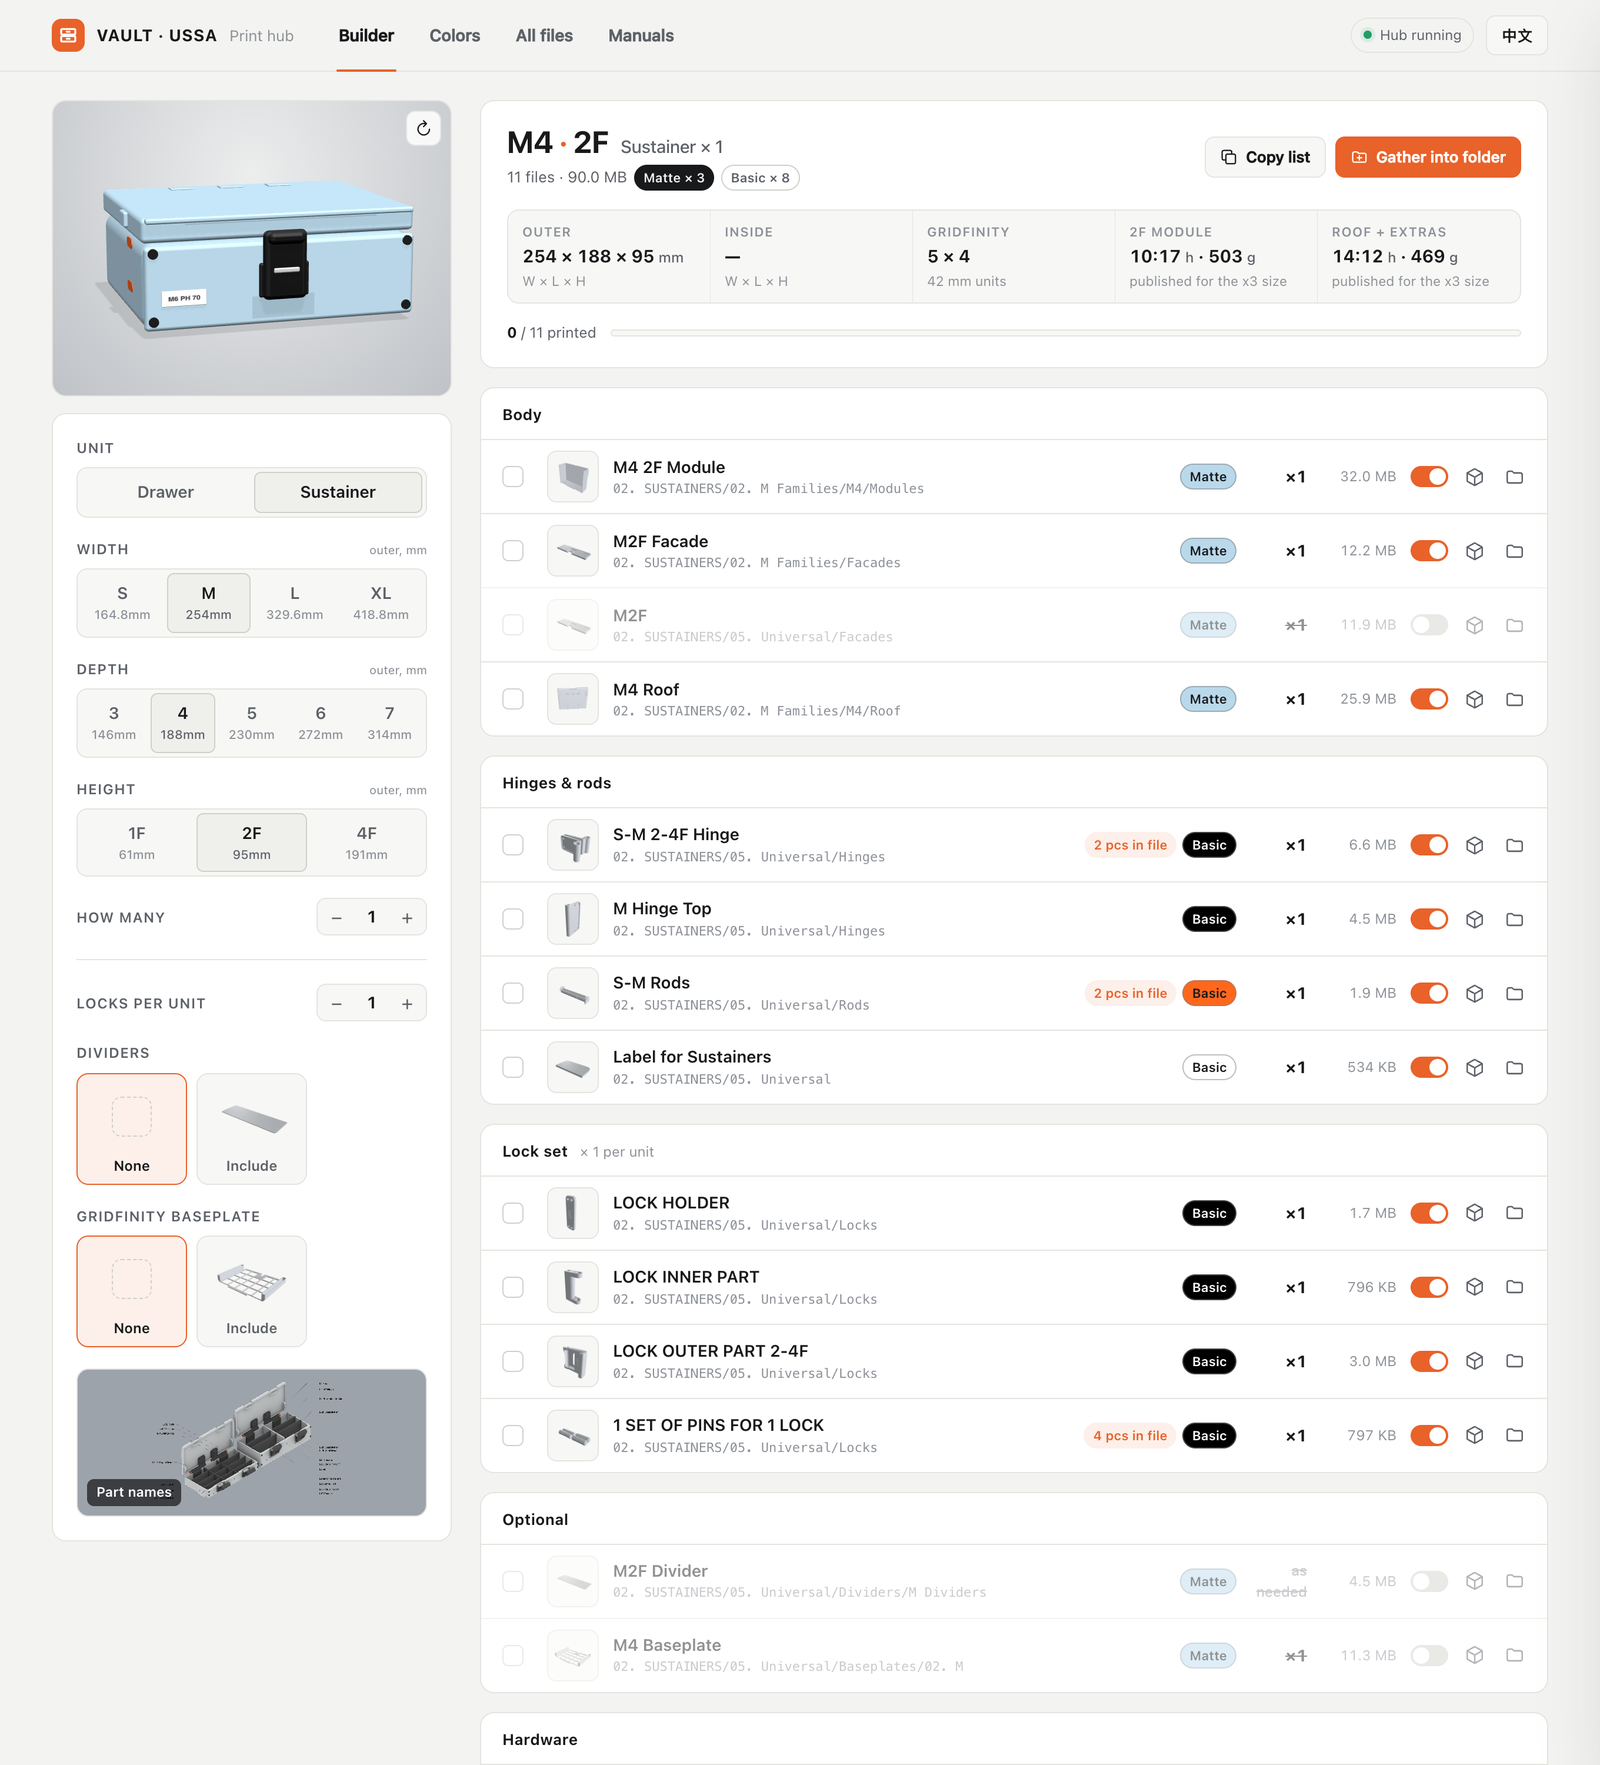
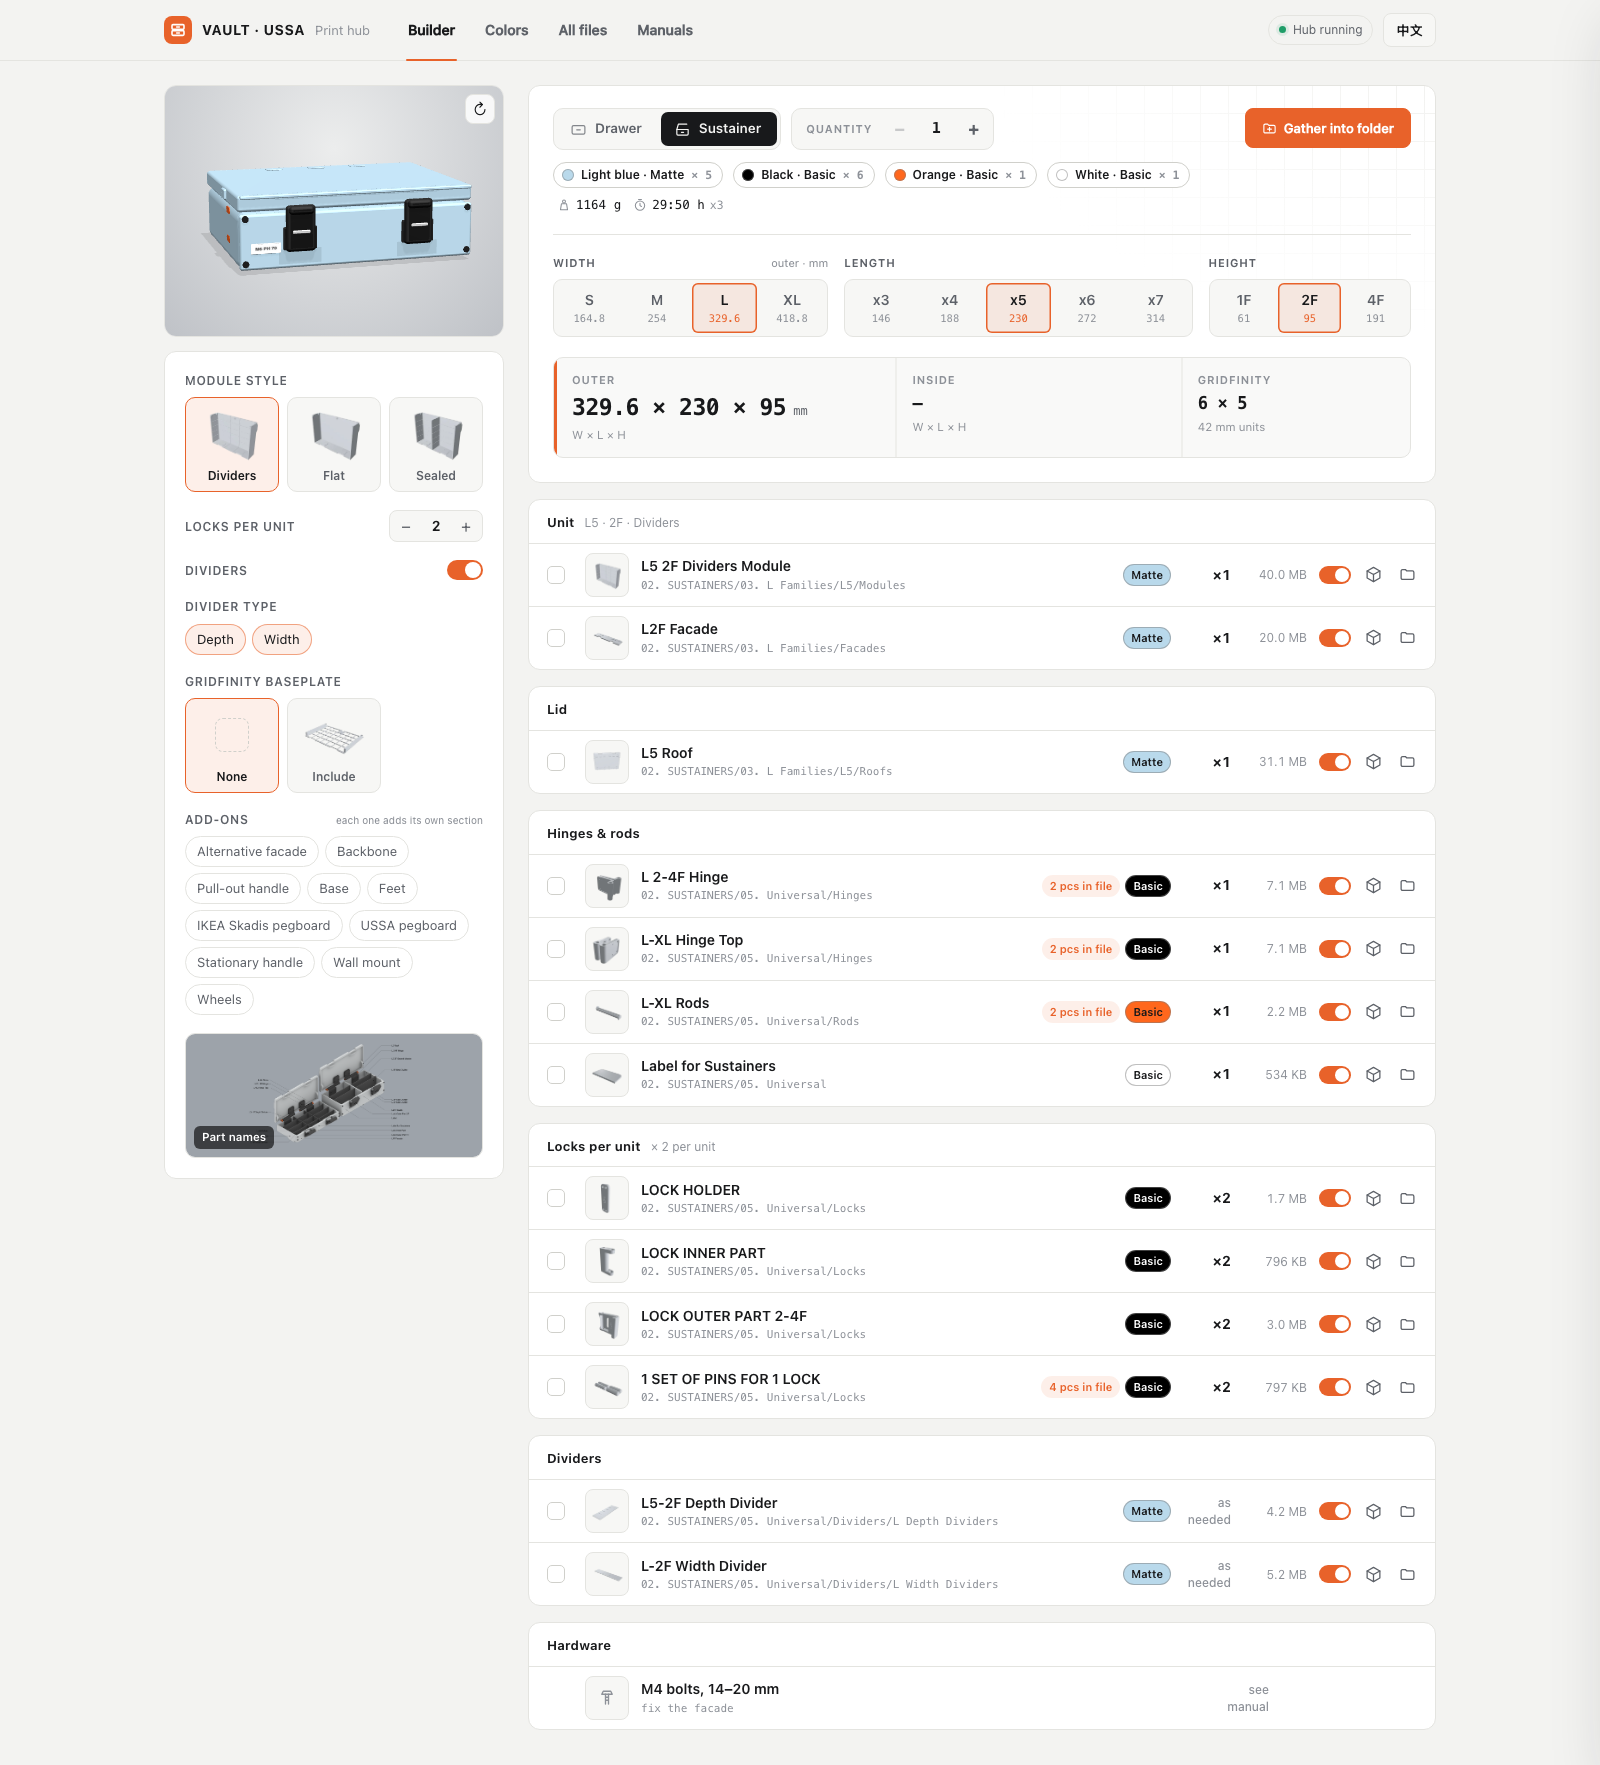
Sustainer dividers follow the module style (Dividers: Depth + Width, Sealed: Seal, Flat: none); refreshed Builder screenshots; README updated

diff --git a/index.html b/index.html
@@ -680,7 +680,7 @@ const I18N = {
     height: 'Height', count: 'Quantity', lock: 'Lock', lockKey: 'Key', lockHidden: 'Hidden key',
     roof: 'Roof for the top unit', none: 'None', handle: 'Top handle', baseplate: 'Gridfinity baseplate',
     plain: 'Plain', oneHandle: '1 handle', twoHandles: '2 handles', modStyle: 'Module style', lid: 'Lid',
-    divKind: 'Divider type', div_depth: 'Depth', div_width: 'Width', div_seal: 'Seal', whole: 'One piece', split: 'Split · 2 parts', locks: 'Locks per unit', dividers: 'Dividers', include: 'Include', twoParts: 'Include · 2 parts', exploded: 'Part names',
+    divKind: 'Divider type', div_depth: 'Depth', div_width: 'Width', div_seal: 'Seal', flatNoSlots: 'The Flat module has no divider slots. Pick the Dividers or Sealed style to use dividers.', whole: 'One piece', split: 'Split · 2 parts', locks: 'Locks per unit', dividers: 'Dividers', include: 'Include', twoParts: 'Include · 2 parts', exploded: 'Part names',
     secUnit: 'Unit', secMech: 'Slides & latch', secTopNote: 'print once per stack',
     secHinge: 'Hinges & rods', secLockNote: n => `× ${n} per unit`, secHw: 'Hardware',
     perUnit: 'per unit', bolts: 'M4 bolts, 14–20 mm', boltsNote: n => `${n} per drawer · fix the facade`, boltsSus: 'fix the facade',
@@ -720,7 +720,7 @@ const I18N = {
     height: '高度', count: '数量', lock: '锁', lockKey: '钥匙锁', lockHidden: '隐藏钥匙',
     roof: '最顶层盖板', none: '无', handle: '顶部提手', baseplate: 'Gridfinity 底板',
     plain: '无把手', oneHandle: '单把手', twoHandles: '双把手', modStyle: '盒体样式', lid: '盖子',
-    divKind: '隔板类型', div_depth: '深度', div_width: '宽度', div_seal: '密封', whole: '整体', split: '分体 · 2 件', locks: '每个盒子的锁', dividers: '隔板', include: '包含', twoParts: '包含 · 2 件', exploded: '零件命名图',
+    divKind: '隔板类型', div_depth: '深度', div_width: '宽度', div_seal: '密封', flatNoSlots: '平面款盒体没有隔板卡槽。要用隔板,请选「Dividers」或「Sealed」款。', whole: '整体', split: '分体 · 2 件', locks: '每个盒子的锁', dividers: '隔板', include: '包含', twoParts: '包含 · 2 件', exploded: '零件命名图',
     secUnit: '主体', secMech: '滑轨与卡扣', secTopNote: '每组堆叠只打印一次',
     secHinge: '铰链与销杆', secLockNote: n => `每个盒子 × ${n}`, secHw: '五金件',
     perUnit: '每个', bolts: 'M4 螺丝，14–20 mm', boltsNote: n => `每层抽屉 ${n} 颗 · 固定面板`, boltsSus: '固定面板',
@@ -999,15 +999,21 @@ function extraSections() {
 }
 
 // Sustainer dividers come from the sustainer folder, by kind: S and M have one; L and XL have Depth, Width and Seal.
+// Which kinds fit depends on the module style (measured on the STLs): the Dividers module has wall slots for the Depth and Width plates,
+// the Sealed module has a center wall and takes the compartment-sized Seal plates, the Flat module has no slots at all.
+const DIVIDER_STYLE = { Dividers: ['depth', 'width'], Sealed: ['seal'], Flat: [] };
 function sustainerDividerKinds() {
   const { w, d, h } = state, dv = `${S_UNI}Dividers/`;
+  const styles = sustainerVariants(), style = (styles.find(v => v.id === state.variant) || styles[0])?.id;
   if (w === 'S' || w === 'M') return [{ id: 'all', label: t('dividers'), files: find(`${dv}${w} Dividers/${w}${h} Divider\\.stl$`) }].filter(k => k.files.length);
   const kind = (id, re) => ({ id, label: t('div_' + id), files: find(re) });
+  const fit = k => !(style in DIVIDER_STYLE) || DIVIDER_STYLE[style].includes(k.id);
   return (w === 'L'
     ? [kind('depth', `${dv}L Depth Dividers/L${d}-${h} Depth Divider\\.stl$`), kind('width', `${dv}L Width Dividers/L-${h} Width Divider\\.stl$`), kind('seal', `${dv}L Seal Dividers/L-${h} Seal Divider\\.stl$`)]
     : [kind('depth', `${dv}XL Depth Dividers/XL${d} Depth Divider\\.stl$`), kind('width', `${dv}XL Width Divider\\.stl$`), kind('seal', `${dv}XL Seal Divider \\(\\w+\\)\\.stl$`)]
-  ).filter(k => k.files.length);
+  ).filter(k => k.files.length && fit(k));
 }
+const flatNoSlots = () => { const v = sustainerVariants(); const st = (v.find(x => x.id === state.variant) || v[0])?.id; return st === 'Flat'; };
 const sustainerDividers = () => sustainerDividerKinds().flatMap(k => k.files);
 const sustainerBaseplates = () => find(`${S_UNI}Baseplates/[^/]+/${state.w}${state.d}( Part \\d)? +(Gridfinity )?Baseplate\\.stl$`);
 
@@ -1041,7 +1047,7 @@ function sustainerSections() {
     sec(t('lid'), lid ? lid.files.map(f => part(f)) : [part(null, 1, { expect: `${w}${d} Roof` })]),
     sec(t('secHinge'), hinge),
     sec(t('locks'), lock, { sub: t('secLockNote', n), raw: true }),
-    sec(t('dividers'), state.dividers ? sustainerDividerKinds().filter(k => k.id === 'all' || state.divKinds?.[k.id]).flatMap(k => k.files).map(f => part(f, null)) : []),
+    sec(t('dividers'), state.dividers ? sustainerDividerKinds().filter((k, _, all) => all.length === 1 || state.divKinds?.[k.id]).flatMap(k => k.files).map(f => part(f, null)) : []),
     sec(t('baseplate'), state.sbase ? sustainerBaseplates().map(f => part(f)) : []),
     ...extraSections(),
     sec(t('secHw'), [{ hw: t('bolts'), sub: t('boltsSus'), qty: null }]),
@@ -1190,6 +1196,7 @@ function renderConfig() {
     html += stepper('locks', t('locks'), 0, 4);
     const dk = sustainerDividerKinds(), sbases = sustainerBaseplates();
     if (dk.length) html += toggle('dividers', t('dividers'));
+    else if (flatNoSlots()) html += field(t('dividers'), `<p class="note" style="padding:0">${esc(t('flatNoSlots'))}</p>`);
     if (dk.length > 1 && state.dividers) html += field(t('divKind'), `<div class="chips">${dk.map(k => `<button type="button" class="chip" data-dk="${k.id}" aria-pressed="${!!state.divKinds?.[k.id]}">${esc(k.label)}</button>`).join('')}</div>`);
     if (sbases.length) html += field(t('baseplate'), opts('sbase', [{ val: false, label: t('none') }, { val: true, label: sbases.length > 1 ? t('twoParts') : t('include'), file: sbases[0] }]));
   }

diff --git a/README.md b/README.md
@@ -29,14 +29,18 @@
 ### 📋 Plan + 🧊 See it
 
 - At the top: type and quantity, then the size in W × L × H order (width S–XL, length x3–x7, height 1F / 2F / 4F) right above its measurements. On the left: lock, roof, handle, baseplate, dividers, add-ons.
-- **Grid dividers (optional):** switch them on (starts with the pieces spanning the width and length), then pick the height (full, mid 34.5 mm on 2F/4F, low 20 mm) and the lengths (↔ fits the width, ↕ fits the depth). Only lengths and heights that fit the drawer are offered.
+- **Grid dividers (optional):** switch them on (starts with the pieces spanning the width and length), then pick the height (full, mid 34.5 mm on 2F/4F, low 20 mm) and the lengths (↔ fits the width, ↕ fits the length). Only lengths and heights that fit the drawer are offered.
+- **Sustainer dividers (optional) follow the module style.** They are thin plates that slide into wall slots, so the options depend on the style (checked on the STLs): **Dividers** module → Depth and Width plates; **Sealed** module → Seal plates (one compartment wide, full height); **Flat** module → no slots, so no dividers (a note says so). S and M have one style and one divider. Parts come only from the sustainer folders.
+
+![Dividers follow the module style](docs/dividers-by-style.png)
+
 - **XL 2F / 4F:** official sizes the pack has no body files for. They can be selected so their 82.5 mm dividers, rails, runners and roofs have a unit; module, box and facade show as *not in the pack*.
 - **Add-ons:** each chip adds its own section with the parts that fit this size: manual supports (drawers), L² version, alternative facade, other baseplate versions, wall mount, pegboards, feet, wheels, handles, backbone, base.
 - **One version, never both:** pick a base *whole* or *split*, and backbone / handle-lock parts *sized to the width* or *universal*. The handle lock and knob come with the pull-out handle. On 4F a note says handles need a 1F / 2F backbone elsewhere in the tower.
 - **The list mirrors the options:** one section per option, same name and order, showing only the parts you selected. Nothing unneeded is listed.
 - **Every STL is reachable from the options** (checked for all 110 type / width / length / height combinations): all 723 appear for at least one choice, and only for sizes they fit.
 - A row's switch leaves that part out; it is greyed and skipped by totals and *Gather*.
-- **Filament list:** under the controls, one chip per spool to load, e.g. *Lime · Matte × 4*, with the colors you picked on the Colors tab, Hidden mechanism parts with no color slot are grouped as *Any color*. One summed print figure follows (grams, then time).
+- **Filament list:** under the controls, one chip per spool to load, e.g. *Lime · Matte × 4*, with the colors you picked on the Colors tab. Hidden mechanism parts with no color slot are grouped as *Any color*. One summed print figure follows (grams, then time).
 - The preview shows the outside only (key, label, lid, latches, hinges, roofs) and follows your colors.
 
 ![Six sizes](docs/builder-preview.png)

diff --git a/README.zh-CN.md b/README.zh-CN.md
@@ -30,8 +30,12 @@
 
 - 顶部:类型和数量，然后按 宽 × 长 × 高 的顺序选尺寸(宽度 S–XL、长度 x3–x7、高度 1F / 2F / 4F),下面紧接着显示尺寸数据。左边:锁、顶盖、提手、底板、隔板、附加件。
 - **网格隔板(可选):** 打开开关(默认选好横跨宽度和长度的两种隔板),再选高度(满高、2F/4F 的中高 34.5mm、矮款 20mm)和长度(↔ 正好是宽度,↕ 正好是长度)。只提供放得进这个抽屉的长度和高度。
+- **翻盖收纳盒的隔板(可选)跟着盒体款式走。** 它们是插进侧壁卡槽的薄板,所以选项取决于款式(已在 STL 上核对):**Dividers** 款 → 深度和宽度隔板;**Sealed** 款 → 密封隔板(一个隔舱宽、满高);**Flat** 款 → 没有卡槽,所以没有隔板(会有提示)。S 和 M 只有一种款式、一种隔板。零件只来自收纳盒文件夹。
+
+![隔板跟着盒体款式走](docs/dividers-by-style.png)
+
 - **XL 2F / 4F:** 官方尺寸,但文件包里没有它们的主体文件。可以选择,让 82.5mm 隔板、导轨、滑轨和顶盖有对应的型号;模块、盒子和面板显示为"文件包中没有"。
-- **附加件:** 一键打开适合这个尺寸的一整组:手动支撑件(仅抽屉)、L² 版本、备选面板、其他底板版本、壁挂件、挂板、脚垫、轮子、提手、背板、底座。
+- **附加件:** 每个标签在右边加一节,里面是适合这个尺寸的零件:手动支撑件(仅抽屉)、L² 版本、备选面板、其他底板版本、壁挂件、挂板、脚垫、轮子、提手、背板、底座。
 - **只选一个版本:** 底座选*整体*或*分体*;背板和提手锁选*按宽度*或*通用*。提手锁和旋钮跟拉出式提手一起。4F 会提示:提手需要塔里其他 1F / 2F 盒子的背板。
 - **清单和选项一一对应:** 每个选项一节，名称和顺序相同，只显示你选中的零件，不列多余的零件。
 - **每个 STL 都能通过选项选到**(已在全部 110 种类型 / 宽度 / 长度 / 高度组合上验证):723 个文件都至少在一种选择下出现，而且只出现在放得下的尺寸里。
